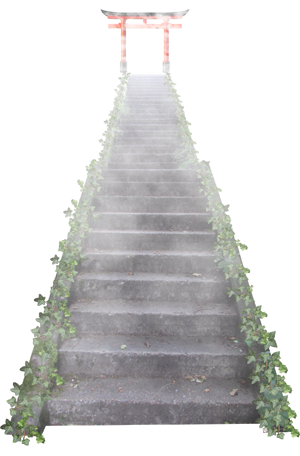
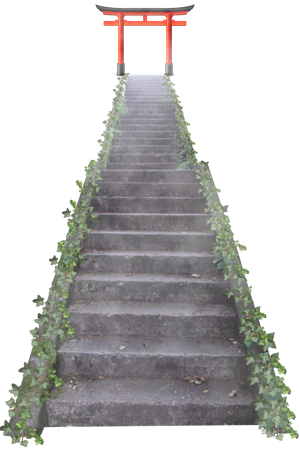
feat: polish adaptive pics

diff --git a/style.scss b/style.scss
@@ -744,7 +744,7 @@ body.active {
     .torii {
         width: 539px;
         height: 784px;
-        background-image: url('./refs/background_768.png');
+        background-image: url('./refs/background_768_1.png');
         margin: 0 auto;
         z-index: 1;
         background-repeat: no-repeat;
@@ -759,7 +759,7 @@ body.active {
         /* position: absolute; */
         z-index: 10;
         opacity: 0.4;
-        transform: translate(-20px, -730px);    
+        transform: translate(-30px, -690px);    
     }
     
     .dragon.active {
@@ -771,7 +771,7 @@ body.active {
         /* position: absolute; */
         z-index: 10;
         opacity: 0.4;
-        transform: translate(-30px, -650px);    
+        transform: translate(-30px, -620px);    
         background-repeat: no-repeat;
     }
     
@@ -1057,7 +1057,7 @@ body.active {
         font-family: 'Graffiti';
         font-size: 24px;
         color: $main;
-        transform: translate(220px, -2092px);
+        transform: translate(220px, -1942px);
         position: absolute;
         user-select: none;
     }
@@ -1068,7 +1068,7 @@ body.active {
         font-family: 'Graffiti';
         font-size: 24px;
         color: $main;
-        transform: translate(470px, -2092px);
+        transform: translate(470px, -1942px);
         display: flex;
         justify-content: flex-end;
         user-select: none;
@@ -1224,10 +1224,10 @@ body.active {
     }
     
     .lantern_light {
-        width: 300px;
-        height: 300px;
-        background-image: url('./refs/stone_lantern_light_lighting.png');
-        transform: translate(210px, -1130px);
+        width: 150px;
+        height: 150px;
+        background-image: url('./refs/stone_lantern_light_lighting_320.png');
+        transform: translate(530px, -1330px);
         display: flex;
         justify-content: center;
         align-items: center;
@@ -1235,7 +1235,7 @@ body.active {
     }
     
     .lantern_light.active {    
-        background-image: url('./refs/stone_lantern_dark_lighting.png');    
+        background-image: url('./refs/stone_lantern_dark_lighting_320.png');    
     }
     
     .moving_light_1 {
@@ -1447,7 +1447,7 @@ body.active {
     .torii {
         width: 300px;
         height: 456px;
-        background-image: url('./refs/background_320_1.png');
+        background-image: url('./refs/background_320_2.png');
         margin: 0 auto;
         z-index: 1;
         background-repeat: no-repeat;
@@ -1461,8 +1461,8 @@ body.active {
         margin-top: 50px;
         /* position: absolute; */
         z-index: 10;
-        opacity: 0.4;
-        transform: translate(0px, -390px);   
+        opacity: 0.6;
+        transform: translate(0px, -400px);   
     }
     
     .dragon.active {
@@ -1473,8 +1473,8 @@ body.active {
         margin-top: 50px;
         /* position: absolute; */
         z-index: 10;
-        opacity: 0.4;
-        transform: translate(0px, -350px);    
+        opacity: 0.6;
+        transform: translate(0px, -405px);    
         background-repeat: no-repeat;
     }
     
@@ -1499,7 +1499,7 @@ body.active {
     }
     
     .sakura_branch.active {    
-        background-image: url('./refs/sakura_branch_resize_dark.png');    
+        background-image: url('./refs/sakura_branch_resize_dark_320.png');           
     }
     
     @keyframes sakura_anim {
@@ -1536,7 +1536,7 @@ body.active {
         display: flex;
         flex-direction: row;
         justify-content: space-between;    
-        z-index: 40;
+        z-index: 240;
         position: relative;   
         top: 0; 
         transform: translate(10px, -820px);
@@ -1662,6 +1662,7 @@ body.active {
         background-image: none;
         list-style: none;
         overflow: hidden;
+        z-index: 200;
     }
     
     .drop_down_menu.active {    
@@ -1762,7 +1763,7 @@ body.active {
         font-family: 'Graffiti';
         font-size: 20px;
         color: $main;
-        transform: translate(50px, -1455px);
+        transform: translate(50px, -1305px);
         position: absolute;
         user-select: none;
     }
@@ -1773,7 +1774,7 @@ body.active {
         font-family: 'Graffiti';
         font-size: 20px;
         color: $main;
-        transform: translate(200px, -1455px);
+        transform: translate(200px, -1305px);
         display: flex;
         justify-content: flex-end;
         user-select: none;
@@ -1929,18 +1930,19 @@ body.active {
     }
     
     .lantern_light {
-        width: 300px;
-        height: 300px;
-        background-image: url('./refs/stone_lantern_light_lighting.png');
-        transform: translate(20px, -780px);
+        width: 150px;
+        height: 150px;
+        background-image: url('./refs/stone_lantern_light_lighting_320.png');
+        transform: translate(80px, -740px);
         display: flex;
         justify-content: center;
         align-items: center;
+        background-repeat: no-repeat;
         //overflow: hidden;
     }
     
     .lantern_light.active {    
-        background-image: url('./refs/stone_lantern_dark_lighting.png');    
+        background-image: url('./refs/stone_lantern_dark_lighting_320.png');    
     }
     
     .moving_light_1 {

diff --git a/style.css b/style.css
@@ -868,7 +868,7 @@ body.active {
   .torii {
     width: 539px;
     height: 784px;
-    background-image: url("./refs/background_768.png");
+    background-image: url("./refs/background_768_1.png");
     margin: 0 auto;
     z-index: 1;
     background-repeat: no-repeat;
@@ -882,7 +882,7 @@ body.active {
     /* position: absolute; */
     z-index: 10;
     opacity: 0.4;
-    transform: translate(-20px, -730px);
+    transform: translate(-30px, -690px);
   }
   .dragon.active {
     width: 500px;
@@ -893,7 +893,7 @@ body.active {
     /* position: absolute; */
     z-index: 10;
     opacity: 0.4;
-    transform: translate(-30px, -650px);
+    transform: translate(-30px, -620px);
     background-repeat: no-repeat;
   }
   .sakura_wrapper {
@@ -1182,7 +1182,7 @@ body.active {
     font-family: "Graffiti";
     font-size: 24px;
     color: #d81a46;
-    transform: translate(220px, -2092px);
+    transform: translate(220px, -1942px);
     position: absolute;
     -webkit-user-select: none;
        -moz-user-select: none;
@@ -1195,7 +1195,7 @@ body.active {
     font-family: "Graffiti";
     font-size: 24px;
     color: #d81a46;
-    transform: translate(470px, -2092px);
+    transform: translate(470px, -1942px);
     display: flex;
     justify-content: flex-end;
     -webkit-user-select: none;
@@ -1350,16 +1350,16 @@ body.active {
     cursor: pointer;
   }
   .lantern_light {
-    width: 300px;
-    height: 300px;
-    background-image: url("./refs/stone_lantern_light_lighting.png");
-    transform: translate(210px, -1130px);
+    width: 150px;
+    height: 150px;
+    background-image: url("./refs/stone_lantern_light_lighting_320.png");
+    transform: translate(530px, -1330px);
     display: flex;
     justify-content: center;
     align-items: center;
   }
   .lantern_light.active {
-    background-image: url("./refs/stone_lantern_dark_lighting.png");
+    background-image: url("./refs/stone_lantern_dark_lighting_320.png");
   }
   .moving_light_1 {
     width: 10px;
@@ -1643,7 +1643,7 @@ body.active {
   .torii {
     width: 300px;
     height: 456px;
-    background-image: url("./refs/background_320_1.png");
+    background-image: url("./refs/background_320_2.png");
     margin: 0 auto;
     z-index: 1;
     background-repeat: no-repeat;
@@ -1656,8 +1656,8 @@ body.active {
     margin-top: 50px;
     /* position: absolute; */
     z-index: 10;
-    opacity: 0.4;
-    transform: translate(0px, -390px);
+    opacity: 0.6;
+    transform: translate(0px, -400px);
   }
   .dragon.active {
     width: 300px;
@@ -1667,8 +1667,8 @@ body.active {
     margin-top: 50px;
     /* position: absolute; */
     z-index: 10;
-    opacity: 0.4;
-    transform: translate(0px, -350px);
+    opacity: 0.6;
+    transform: translate(0px, -405px);
     background-repeat: no-repeat;
   }
   .sakura_wrapper {
@@ -1694,7 +1694,7 @@ body.active {
     transform-origin: top right;
   }
   .sakura_branch.active {
-    background-image: url("./refs/sakura_branch_resize_dark.png");
+    background-image: url("./refs/sakura_branch_resize_dark_320.png");
   }
   @-webkit-keyframes sakura_anim {
     0% {
@@ -1745,7 +1745,7 @@ body.active {
     display: flex;
     flex-direction: row;
     justify-content: space-between;
-    z-index: 40;
+    z-index: 240;
     position: relative;
     top: 0;
     transform: translate(10px, -820px);
@@ -1866,6 +1866,7 @@ body.active {
     background-image: none;
     list-style: none;
     overflow: hidden;
+    z-index: 200;
   }
   .drop_down_menu.active {
     height: 30px;
@@ -1959,7 +1960,7 @@ body.active {
     font-family: "Graffiti";
     font-size: 20px;
     color: #d81a46;
-    transform: translate(50px, -1455px);
+    transform: translate(50px, -1305px);
     position: absolute;
     -webkit-user-select: none;
        -moz-user-select: none;
@@ -1972,7 +1973,7 @@ body.active {
     font-family: "Graffiti";
     font-size: 20px;
     color: #d81a46;
-    transform: translate(200px, -1455px);
+    transform: translate(200px, -1305px);
     display: flex;
     justify-content: flex-end;
     -webkit-user-select: none;
@@ -2127,16 +2128,17 @@ body.active {
     cursor: pointer;
   }
   .lantern_light {
-    width: 300px;
-    height: 300px;
-    background-image: url("./refs/stone_lantern_light_lighting.png");
-    transform: translate(20px, -780px);
+    width: 150px;
+    height: 150px;
+    background-image: url("./refs/stone_lantern_light_lighting_320.png");
+    transform: translate(80px, -740px);
     display: flex;
     justify-content: center;
     align-items: center;
+    background-repeat: no-repeat;
   }
   .lantern_light.active {
-    background-image: url("./refs/stone_lantern_dark_lighting.png");
+    background-image: url("./refs/stone_lantern_dark_lighting_320.png");
   }
   .moving_light_1 {
     width: 10px;
